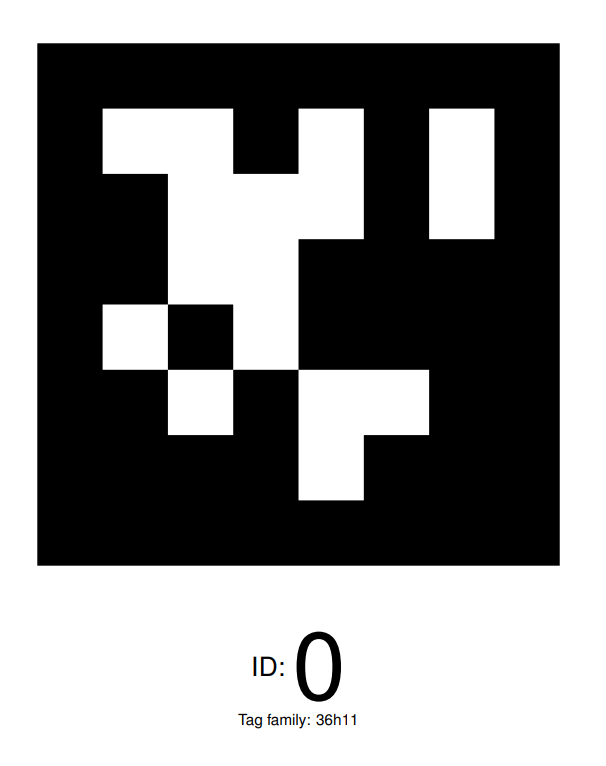
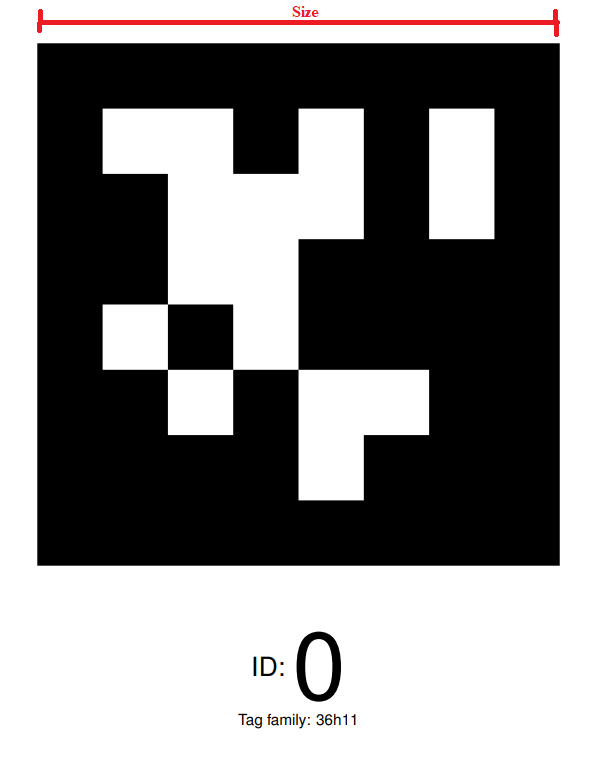
Doc

Changed region(s): [[0.0594, 0.0, 0.9208, 0.0601]]

diff --git a/docs/source/apriltag_feature.rst b/docs/source/apriltag_feature.rst
@@ -54,7 +54,7 @@ If you are using the OAK-D camera you will need to install the Oak-D depth ai mo
     python3 install_requirements.py
     source ~/.bashrc
 
-You now need to tell the Pegasus-Mini Apriltag package which tag family to look for, as well as their corresponding tag ID's. This can be done in the settings.yaml and tags.yaml files found in the /apriltag_ros/config directory.
+You now need to tell the Pegasus-Mini Apriltag package which tag family to look for, corresponding tag ID's and there respective sizes (m). This can be done in the settings.yaml and tags.yaml files found in the /apriltag_ros/config directory.
 
 .. image:: /images/apriltag/tag_36h11.png
     :align: center
